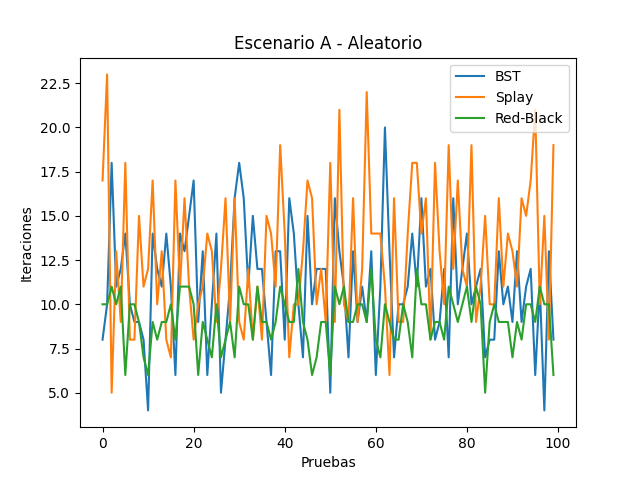
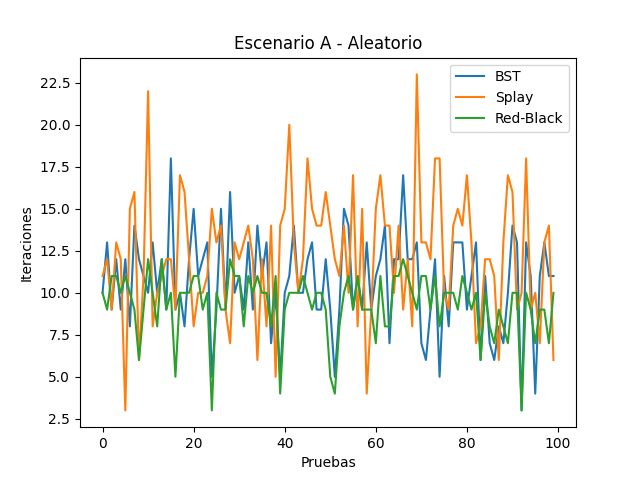
Separación Node en clase base limpia y corrección de insercion en BST

diff --git a/src/trees/red_black.py b/src/trees/red_black.py
@@ -1,12 +1,11 @@
 from .node import Node
 
+
 class RedBlackTree:
     def __init__(self):
         self.NIL = Node(None)
         self.NIL.color = "BLACK"
         self.root = self.NIL
-
-    # ---------------- ROTACIONES ---------------- #
 
     def left_rotate(self, x):
         y = x.right
@@ -46,14 +45,12 @@ class RedBlackTree:
         x.right = y
         y.parent = x
 
-    # ---------------- INSERCIÓN ---------------- #
-
     def insert(self, key):
         node = Node(key)
+        node.color = "RED"
         node.left = self.NIL
         node.right = self.NIL
         node.parent = None
-        node.color = "RED"
 
         parent = None
         current = self.root
@@ -62,8 +59,10 @@ class RedBlackTree:
             parent = current
             if node.key < current.key:
                 current = current.left
-            else:
+            elif node.key > current.key:
                 current = current.right
+            else:
+                return
 
         node.parent = parent
 
@@ -83,45 +82,37 @@ class RedBlackTree:
 
         self._fix_insert(node)
 
-    # ---------------- FIX RB ---------------- #
-
     def _fix_insert(self, k):
         while k.parent.color == "RED":
             if k.parent == k.parent.parent.left:
-                u = k.parent.parent.right  # tío
+                uncle = k.parent.parent.right
 
-                if u.color == "RED":
-                    # Caso 1
-                    u.color = "BLACK"
+                if uncle.color == "RED":
+                    uncle.color = "BLACK"
                     k.parent.color = "BLACK"
                     k.parent.parent.color = "RED"
                     k = k.parent.parent
                 else:
                     if k == k.parent.right:
-                        # Caso 2
                         k = k.parent
                         self.left_rotate(k)
 
-                    # Caso 3
                     k.parent.color = "BLACK"
                     k.parent.parent.color = "RED"
                     self.right_rotate(k.parent.parent)
             else:
-                u = k.parent.parent.left  # tío
+                uncle = k.parent.parent.left
 
-                if u.color == "RED":
-                    # Caso 1
-                    u.color = "BLACK"
+                if uncle.color == "RED":
+                    uncle.color = "BLACK"
                     k.parent.color = "BLACK"
                     k.parent.parent.color = "RED"
                     k = k.parent.parent
                 else:
                     if k == k.parent.left:
-                        # Caso 2
                         k = k.parent
                         self.right_rotate(k)
 
-                    # Caso 3
                     k.parent.color = "BLACK"
                     k.parent.parent.color = "RED"
                     self.left_rotate(k.parent.parent)
@@ -131,19 +122,15 @@ class RedBlackTree:
 
         self.root.color = "BLACK"
 
-    # ---------------- SEARCH  ---------------- #
-
     def search(self, key):
         current = self.root
         steps = 0
 
         while current != self.NIL:
             steps += 1
-
             if key == current.key:
                 return current, steps
-
-            if key < current.key:
+            elif key < current.key:
                 current = current.left
             else:
                 current = current.right

diff --git a/src/trees/bst.py b/src/trees/bst.py
@@ -1,27 +1,31 @@
 from .node import Node
 
+
 class BST:
     def __init__(self):
         self.root = None
 
     def insert(self, key):
-        node = Node(key)
         if not self.root:
-            self.root = node
+            self.root = Node(key)
             return
-        
+
         current = self.root
         while True:
-            if key < current.key:
+            if key == current.key:
+                return
+            elif key < current.key:
                 if not current.left:
-                    current.left = node
-                    node.parent = current
+                    new_node = Node(key)
+                    new_node.parent = current
+                    current.left = new_node
                     return
                 current = current.left
             else:
                 if not current.right:
-                    current.right = node
-                    node.parent = current
+                    new_node = Node(key)
+                    new_node.parent = current
+                    current.right = new_node
                     return
                 current = current.right
 

diff --git a/src/trees/node.py b/src/trees/node.py
@@ -4,6 +4,3 @@ class Node:
         self.left = None
         self.right = None
         self.parent = None
-        
-        # Solo para Red-Black
-        self.color = "RED"
